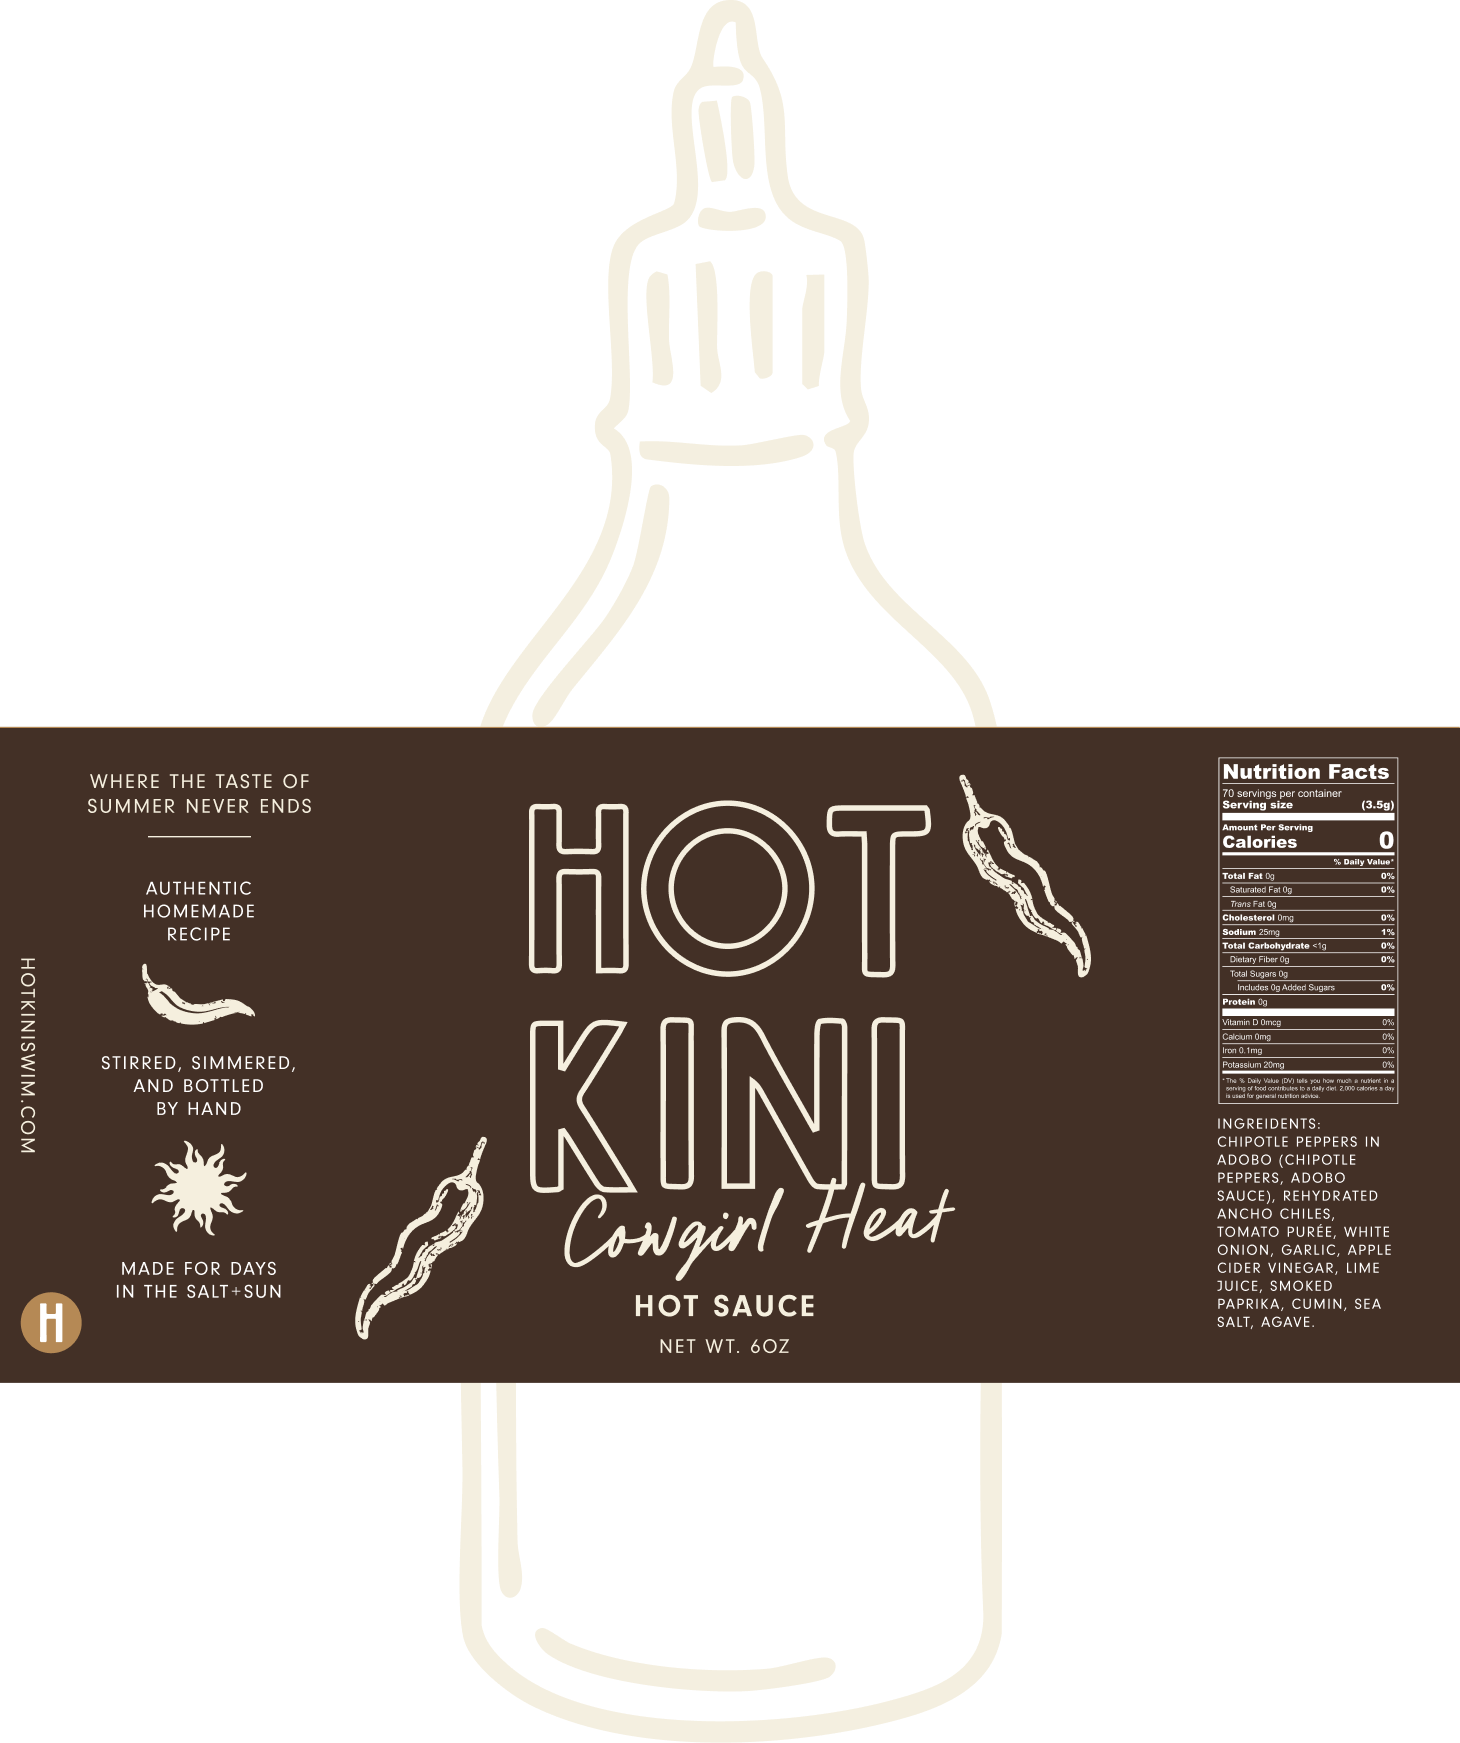
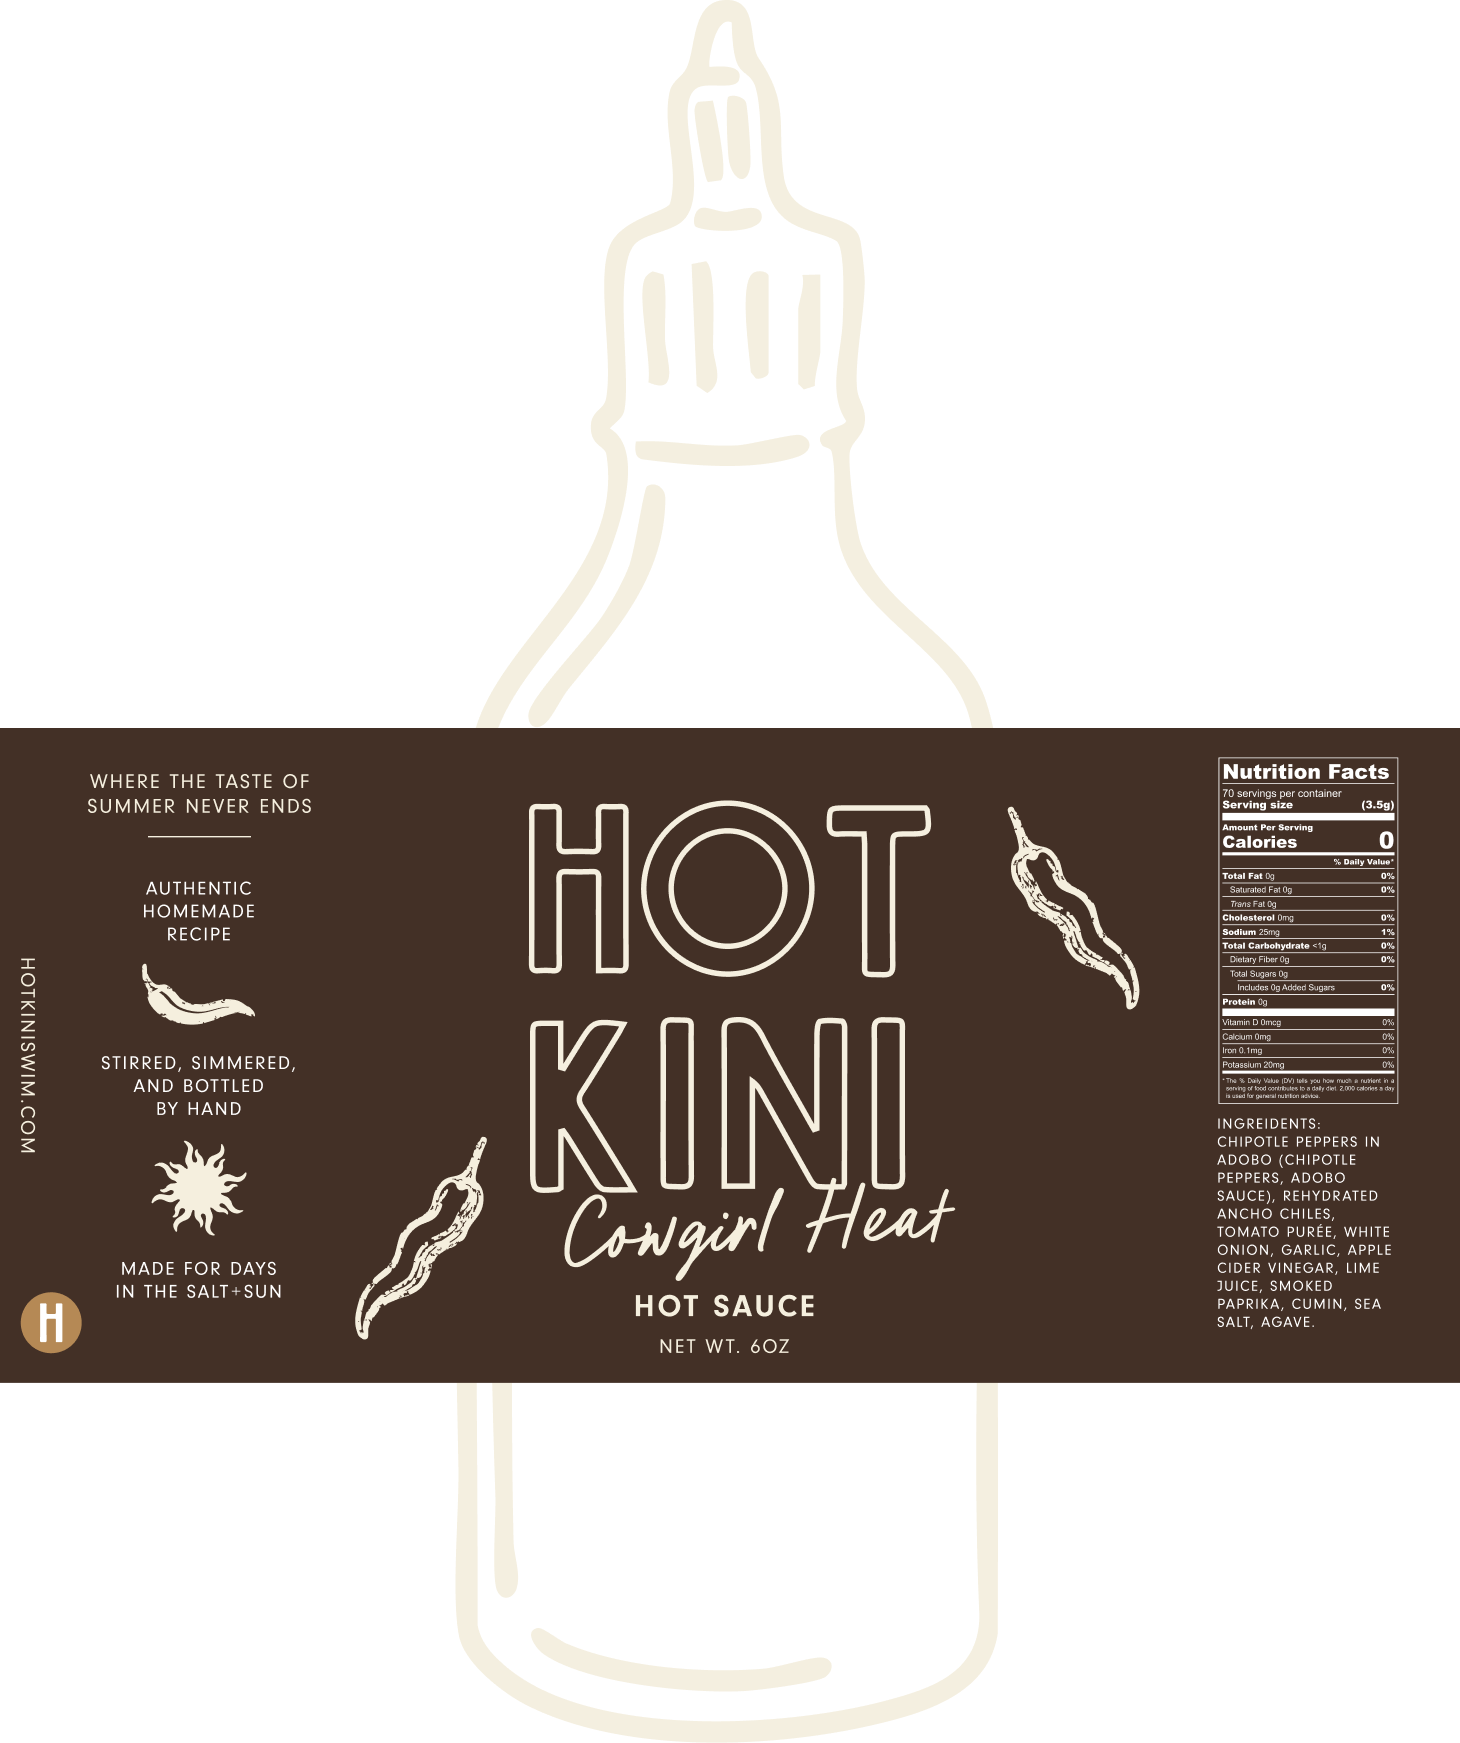
GRECK off the homepage (Work only); Hot Kini Cowgirl label pepper fixed (v=101)

diff --git a/index.html b/index.html
@@ -26,8 +26,8 @@
 <link rel="preconnect" href="https://fonts.gstatic.com" crossorigin>
 <!-- Neue Haas Grotesk Display via Adobe Fonts -->
 <link rel="stylesheet" href="https://use.typekit.net/qay0tct.css">
-<link href="https://fonts.googleapis.com/css2?family=42dot+Sans:wght@600&family=Inter:wght@400;500;700&display=swap" rel="stylesheet">
-<link rel="stylesheet" href="styles.css?v=100">
+<link href="https://fonts.googleapis.com/css2?family=Inter:wght@400;500;700&display=swap" rel="stylesheet">
+<link rel="stylesheet" href="styles.css?v=101">
 </head>
 <body class="page-light">
 
@@ -58,7 +58,7 @@
       <source media="(max-width: 768px)" srcset="gd-mobile.jpg">
       <img src="gd-desktop.jpg" alt="good days — personal health tracker bringing watch, training, food and sleep data into one place">
     </picture>
-    <span class="index chip"><em>01</em> / 06</span>
+    <span class="index chip"><em>01</em> / 05</span>
     <div class="work-meta">
       <span class="name">good days</span>
       <span class="tags"><span class="chip">Branding</span><span class="chip">App Design</span><span class="chip">UX &amp; Strategy</span></span>
@@ -70,7 +70,7 @@
       <source media="(max-width: 768px)" srcset="owa-mobile.jpg">
       <img src="owa-desktop.jpg" alt="OWA — Open Workshop for Architecture brand identity and stationery system">
     </picture>
-    <span class="index chip"><em>02</em> / 06</span>
+    <span class="index chip"><em>02</em> / 05</span>
     <div class="work-meta">
       <span class="name">OWA</span>
       <span class="tags"><span class="chip">Branding</span><span class="chip">Web</span></span>
@@ -82,7 +82,7 @@
       <source media="(max-width: 768px)" srcset="madrun-mobile.jpg">
       <img src="madrun-desktop.jpg" alt="MADRUN — muscle cooling gel packaging design and product photography">
     </picture>
-    <span class="index chip"><em>03</em> / 06</span>
+    <span class="index chip"><em>03</em> / 05</span>
     <div class="work-meta">
       <span class="name">MADRUN</span>
       <span class="tags"><span class="chip">Product Design</span><span class="chip">Photography</span></span>
@@ -95,7 +95,7 @@
       <source media="(max-width: 768px)" srcset="ora-mobile.jpg">
       <img src="ora-desktop.jpg" alt="ORA Hotel + Residences — brand identity, collateral and sales gallery signage, Tampa">
     </picture>
-    <span class="index chip"><em>04</em> / 06</span>
+    <span class="index chip"><em>04</em> / 05</span>
     <div class="work-meta">
       <span class="name">ORA Hotel + Residences</span>
       <span class="tags"><span class="chip">Branding</span><span class="chip">Positioning</span><span class="chip">Collateral</span><span class="chip">Website</span><span class="chip">Floorplans</span></span>
@@ -105,29 +105,12 @@
   <a class="frame work-item" href="#contact" data-case="pap">
     <video class="bgvid" data-onscreen loop muted playsinline preload="none" poster="pap-poster.jpg"><source src="pap-hero.mp4" type="video/mp4"></video>
     <img class="cover-logo is-seal" src="pap-seal.svg" alt="Premier Asset Partners — branding, strategy and marketing collateral, Lake Mary FL">
-    <span class="index chip"><em>05</em> / 06</span>
+    <span class="index chip"><em>05</em> / 05</span>
     <div class="work-meta">
       <span class="name">Premier Asset Partners</span>
       <span class="tags"><span class="chip">Branding</span><span class="chip">Strategy</span><span class="chip">Social Media</span><span class="chip">Website Design</span></span>
     </div>
   </a>
-
-  <!-- GRECK: in progress, so nothing to open yet. The strip runs like the one on the GRECK site. -->
-  <div class="frame work-item gk-cover is-greck">
-    <div class="gk-photo">
-      <picture class="bgpic">
-        <source media="(max-width: 768px)" srcset="greck-mobile.jpg">
-        <img src="greck-desktop.jpg" srcset="greck-desktop.jpg 1800w, greck-desktop@2x.jpg 2880w" sizes="100vw" alt="GRECK — e-commerce site and marketing for hand-painted, hand-sewn bags">
-      </picture>
-      <img class="gk-mark" src="greck-wordmark.svg" alt="">
-      <span class="index chip"><em>06</em> / 06</span>
-      <div class="work-meta">
-        <span class="name">GRECK <span class="chip soon">Coming soon</span></span>
-        <span class="tags"><span class="chip">E-commerce</span><span class="chip">Marketing</span></span>
-      </div>
-    </div>
-    <div class="gk-band"><div class="gk-ticker" aria-hidden="true"><div class="gk-track"><span>Shop coming soon</span><img src="greck-dot-1.svg" alt=""><span>Bugs</span><img src="greck-dot-2.svg" alt=""><span>Dots</span><img src="greck-dot-3.svg" alt=""><span>Color</span><img src="greck-dot-4.svg" alt=""><span>Shop coming soon</span><img src="greck-dot-5.svg" alt=""><span>Bugs</span><img src="greck-dot-6.svg" alt=""><span>Dots</span><img src="greck-dot-1.svg" alt=""><span>Color</span><img src="greck-dot-2.svg" alt=""><span>Shop coming soon</span><img src="greck-dot-3.svg" alt=""><span>Bugs</span><img src="greck-dot-4.svg" alt=""><span>Dots</span><img src="greck-dot-5.svg" alt=""><span>Color</span><img src="greck-dot-6.svg" alt=""><span>Shop coming soon</span><img src="greck-dot-1.svg" alt=""><span>Bugs</span><img src="greck-dot-2.svg" alt=""><span>Dots</span><img src="greck-dot-3.svg" alt=""><span>Color</span><img src="greck-dot-4.svg" alt=""><span>Shop coming soon</span><img src="greck-dot-5.svg" alt=""><span>Bugs</span><img src="greck-dot-6.svg" alt=""><span>Dots</span><img src="greck-dot-1.svg" alt=""><span>Color</span><img src="greck-dot-2.svg" alt=""><span>Shop coming soon</span><img src="greck-dot-3.svg" alt=""><span>Bugs</span><img src="greck-dot-4.svg" alt=""><span>Dots</span><img src="greck-dot-5.svg" alt=""><span>Color</span><img src="greck-dot-6.svg" alt=""></div></div></div>
-  </div>
 
   
 
@@ -271,6 +254,6 @@
     });
   });
 </script>
-<script src="cases.js?v=100"></script>
+<script src="cases.js?v=101"></script>
 </body>
 </html>

diff --git a/work.html b/work.html
@@ -27,7 +27,7 @@
 <!-- Neue Haas Grotesk Display via Adobe Fonts -->
 <link rel="stylesheet" href="https://use.typekit.net/qay0tct.css">
 <link href="https://fonts.googleapis.com/css2?family=42dot+Sans:wght@600&family=Inter:wght@400;500;700&display=swap" rel="stylesheet">
-<link rel="stylesheet" href="styles.css?v=100">
+<link rel="stylesheet" href="styles.css?v=101">
 </head>
 <body class="page-light">
 
@@ -197,6 +197,6 @@
   const io = new IntersectionObserver(es => es.forEach(e => e.isIntersecting && e.target.classList.add('in')), { threshold:.08 });
   document.querySelectorAll('.reveal').forEach(el => io.observe(el));
 </script>
-<script src="cases.js?v=100"></script>
+<script src="cases.js?v=101"></script>
 </body>
 </html>

diff --git a/archive.html b/archive.html
@@ -27,7 +27,7 @@
 <!-- Neue Haas Grotesk Display via Adobe Fonts -->
 <link rel="stylesheet" href="https://use.typekit.net/qay0tct.css">
 <link href="https://fonts.googleapis.com/css2?family=Inter:wght@400;500;700&display=swap" rel="stylesheet">
-<link rel="stylesheet" href="styles.css?v=100">
+<link rel="stylesheet" href="styles.css?v=101">
 </head>
 <body class="light">
 
@@ -70,6 +70,6 @@
   const io = new IntersectionObserver(es => es.forEach(e => e.isIntersecting && e.target.classList.add('in')), { threshold:.08 });
   document.querySelectorAll('.reveal').forEach(el => io.observe(el));
 </script>
-<script src="archive.js?v=100"></script>
+<script src="archive.js?v=101"></script>
 </body>
 </html>

diff --git a/info.html b/info.html
@@ -27,7 +27,7 @@
 <!-- Neue Haas Grotesk Display via Adobe Fonts -->
 <link rel="stylesheet" href="https://use.typekit.net/qay0tct.css">
 <link href="https://fonts.googleapis.com/css2?family=Inter:wght@400;500;700&display=swap" rel="stylesheet">
-<link rel="stylesheet" href="styles.css?v=100">
+<link rel="stylesheet" href="styles.css?v=101">
 </head>
 <body class="info-body">
 
